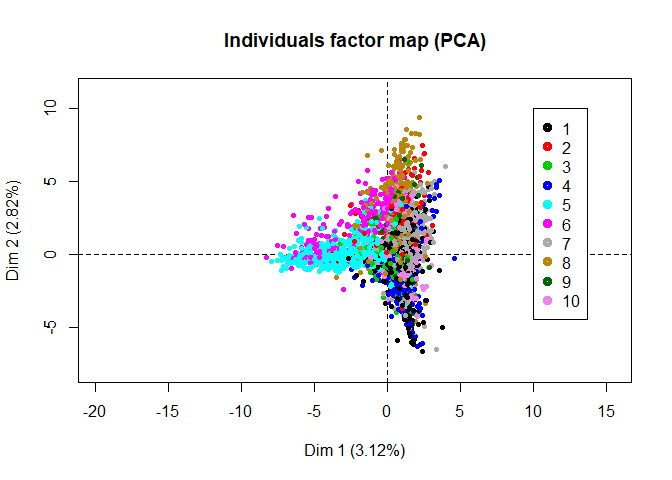
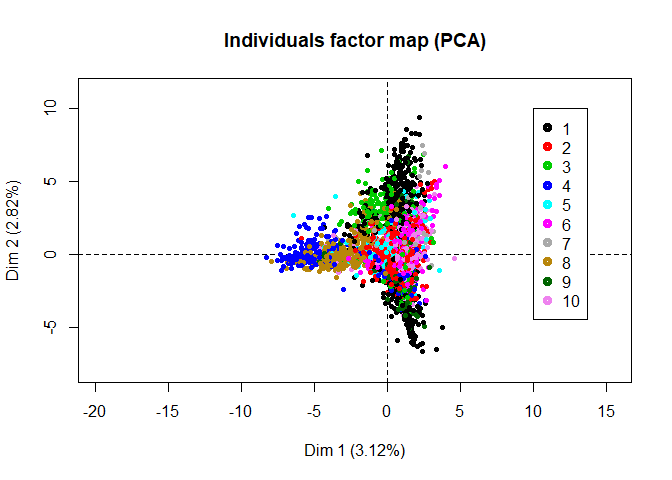
update README

Changed region(s): [[0.375, 0.25, 0.6562, 0.7188]]

diff --git a/README.md b/README.md
@@ -5,8 +5,11 @@ Jui-Ying Hsieh, Li-Hsin Chen
 1. Background
 -------------
 
-2. Problem Statement
---------------------
+We enjoying playing baord games. We have collected more than 20 types of board games, and the number is still growing. We like to explore games, but play one new games after another blindly is not smart. There are evidence shown that more and more games are being created; 1600 games released in the last five years, while only 1086 games released in the 19th century. To explore games efficiently, we frequently visit the famous board game website BoardGameGeek (BGG). There is a comprehensive list of games including their rankings. Our approach to explore games is to review their rankings. We did actually find enjoyable games such as Agricola, Peurto Rico and Pandemic.
+
+However, as we collect more and more games, we find out that rankings does not making us to find enjoyable games. It is obvious that most of the top ranking games strategy games. Other type of games typically are not able to go to top ranking because BGG's users prefer "heavier" games. For example, one of our favorite board games "cat in the sack" is ranked 1111 in BGG, which we think the game is way underestimate.
+
+Hence, we grabbed the data from BGG, and tried to build a board game reference system that help players find their favorite games. This project is about designing a board game reference system, Board Game Match, that find the most enjoyable games for users. We hope Board Game Match can save players time and effort for exploring new games.
 
 3. Method
 ---------
@@ -106,16 +109,16 @@ boardgame_cluster_all %>% group_by(cluster) %>% summarise(n=n())
     ## # A tibble: 10 x 2
     ##    cluster     n
     ##      <dbl> <int>
-    ##  1       1  1020
-    ##  2       2   169
-    ##  3       3   461
-    ##  4       4   470
-    ##  5       5   858
-    ##  6       6   303
-    ##  7       7   580
-    ##  8       8   416
-    ##  9       9   162
-    ## 10      10   560
+    ##  1       1   630
+    ##  2       2  1100
+    ##  3       3   353
+    ##  4       4   576
+    ##  5       5   291
+    ##  6       6   615
+    ##  7       7   211
+    ##  8       8   431
+    ##  9       9   310
+    ## 10      10   482
 
 ``` r
 #=========================================================================
@@ -127,20 +130,11 @@ for(i in 1:n_cluster){
 }
 
 i = 5
-d <- data.frame(word=names(sort(word_freq[,i],decreasing = T)),freq = sort(word_freq[,i],decreasing = T))[1:10,]
+d <- data.frame(word=names(sort(word_freq[,i],decreasing = T)),freq = sort(word_freq[,i],decreasing = T))
 ```
 
 ``` r
-set.seed(1234)
-wordcloud(words = d$word, freq = d$freq, min.freq = 1,
-          max.words=max(d$freq), random.order=FALSE, rot.per=0.35,
-          scale = c(1.5,0.8), colors=brewer.pal(8, "Dark2"))
-```
-
-![](README_files/figure-markdown_github/unnamed-chunk-6-1.png)
-
-``` r
-ggplot(data = d,aes(x = reorder(word,-freq),y = freq)) + 
+ggplot(data = d[1:10,],aes(x = reorder(word,-freq),y = freq)) + 
   geom_bar(stat = "identity", fill = "steelblue") +
   xlab("Game Type")+ ylab("Frequency") +
   ggtitle(paste("Top 10 Game Types of Cluster ",i))+
@@ -153,10 +147,12 @@ ggplot(data = d,aes(x = reorder(word,-freq),y = freq)) +
   )
 ```
 
-![](README_files/figure-markdown_github/unnamed-chunk-7-1.png)
+![](README_files/figure-markdown_github/unnamed-chunk-6-1.png)
 
 4. Result
 ---------
 
 5. Future Work
 --------------
+
+\*\* Combine current data with customer's data \*\* make better prediction
